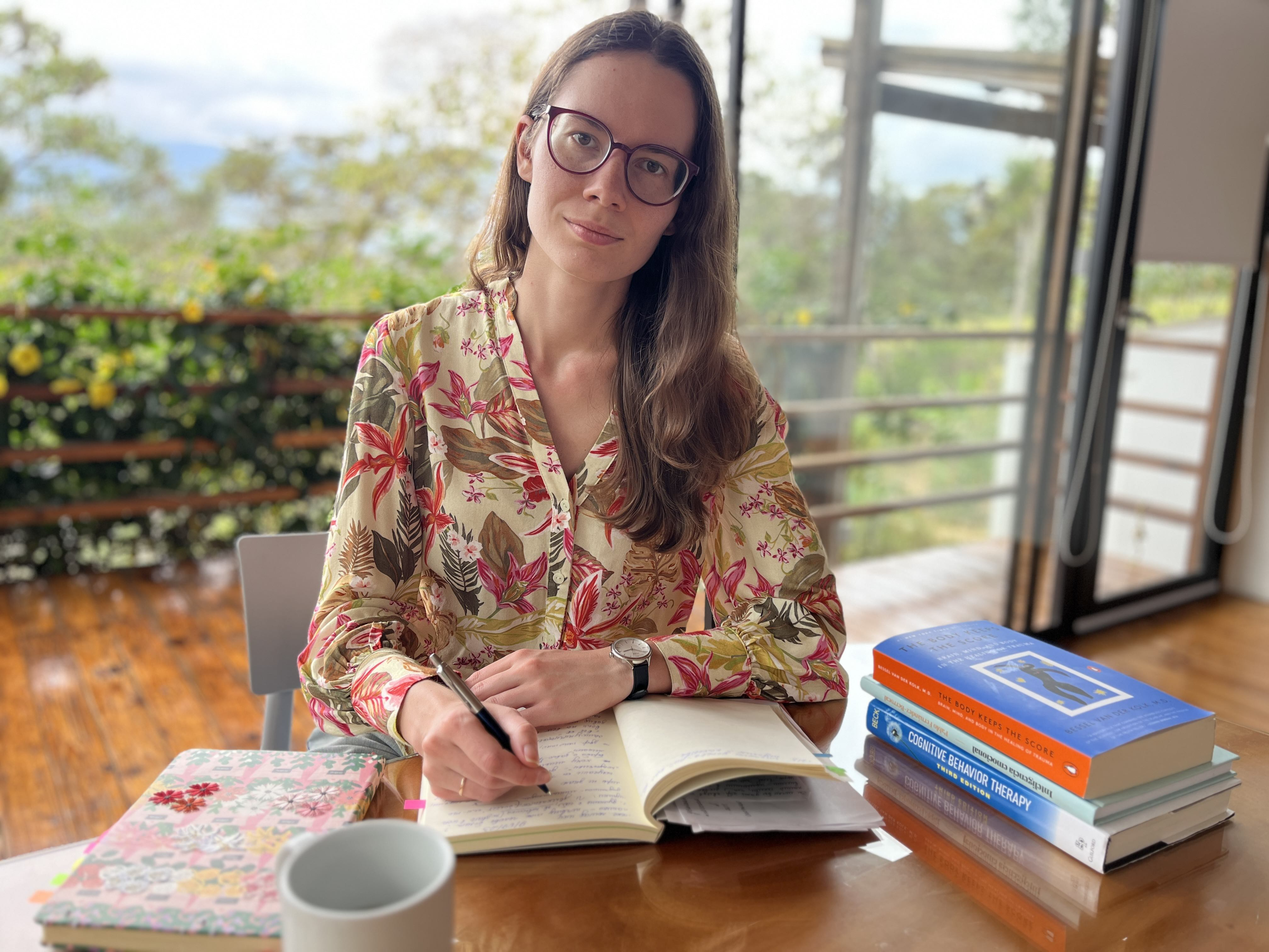
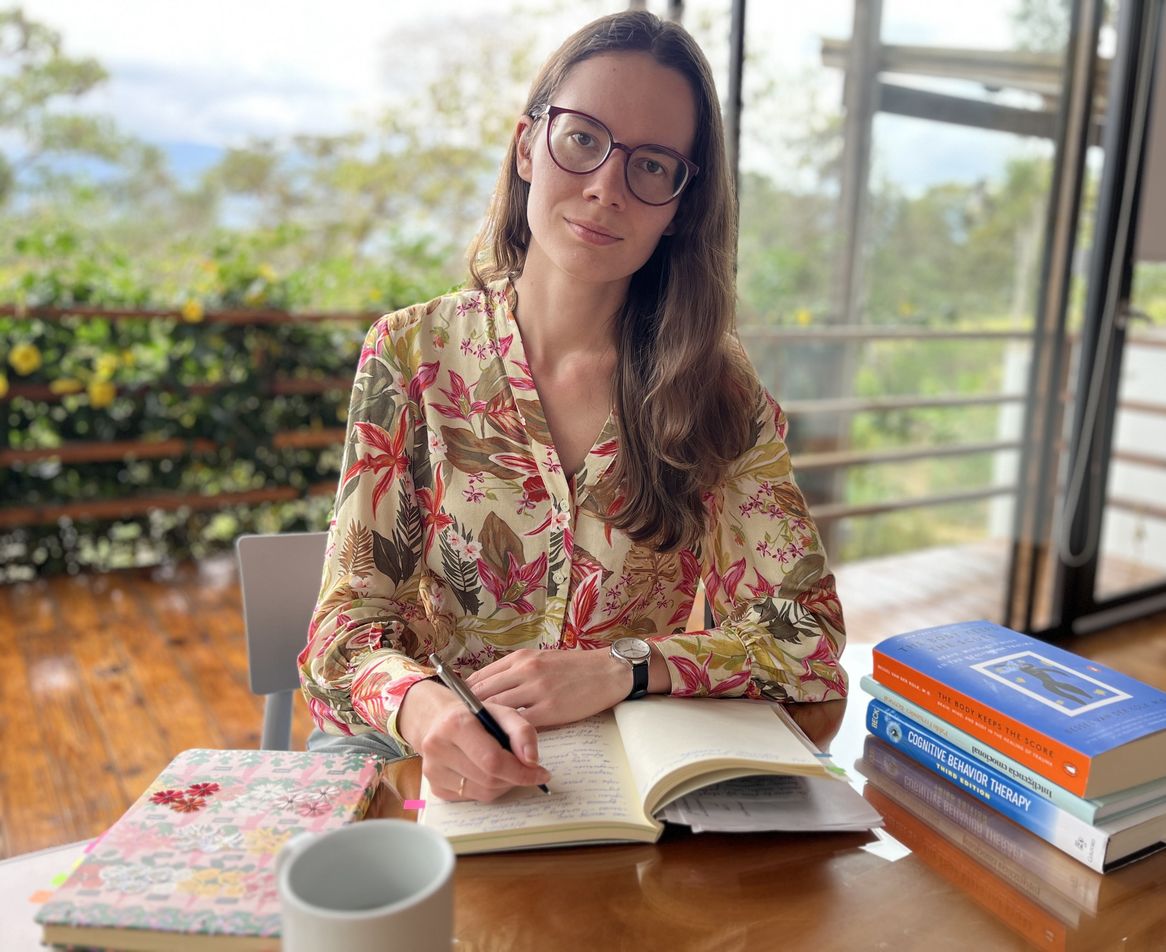
backdrop

diff --git a/styles.css b/styles.css
@@ -26,28 +26,59 @@ a {
 
 /*! Content */
 .content {
+  position: inherit;
   flex: 1;
 }
 .top-section__photo-container {
+  position: inherit;
+  height: 100%;
+  padding: 0;
+  margin: 0;
 }
 .top-section__photo {
   position: absolute;
-
-  width: 100%;
+  margin-left: 35%;
+  height: 90%;
   z-index: -1;
 }
-.top-section__entrance-text {
-  height: 90vh;
-  background-color: rgba(250, 235, 215, 0.51);
+.top-section__text-backdrop {
+  height: 100%;
+  background-color: rgba(250, 235, 215, 1);
   /* -webkit-clip-path: polygon(0 0, 50% 50%, 100% 83%, 0% 98%); */
-  clip-path: polygon(0 0, 40% 0%, 30% 100%, 0% 100%);
+  clip-path: polygon(0 0, 50% 0%, 40% 100%, 0% 100%, 80% 100%, 90% 0%, 100% 0%, 100% 100%, 0% 100%);
+}
+.top-section__text {
+  position: relative;
+  top: 20%;
+  left: 5%;
+}
+
+.top-section__text-big {
+  font-size: 30px;
+}
+.top-section__text-small {
+  font-size: 25px;
+  margin-top: 30px;
+}
+.top-section__contact-btn {
+  background-color: brown;
+  border: 1px solid black;
+  border-radius: 10px;
+  color: antiquewhite;
+  padding: 10px;
+  margin-top: 30px;
+  font-size: 30px;
+}
+.top-section__contact-btn:hover {
+  cursor: pointer;
+  background-color: rgb(119, 7, 7);
 }
 
 /*! header  */
 header {
   position: relative;
   background-color: aquamarine;
-  height: 300px;
+  height: 10%;
 }
 .brand {
   position: absolute;

diff --git a/index.html b/index.html
@@ -33,10 +33,15 @@
 
         <div class="content">
             <div class="top-section__photo-container">
-                <img src="/img/photo3.jpg" alt="Main photo" class="top-section__photo">
-                <div class="top-section__entrance-text">
-                    <h3>Когнитивно - Поведенческая Терапия</h3>
+                <img src="/img/photo2.jpg" alt="Main photo" class="top-section__photo">
+                <div class="top-section__text-backdrop">
+                    <div class="top-section__text">
+                        <div class="top-section__text-big">Когнитивно - Поведенческая Терапия</div>
+                        <div class="top-section__text-small">Это круто. И помогает людям!</div>
+                        <button class="top-section__contact-btn">Мне нужен психолог</button>
+                    </div>
                 </div>
+
             </div>
         </div>
         
